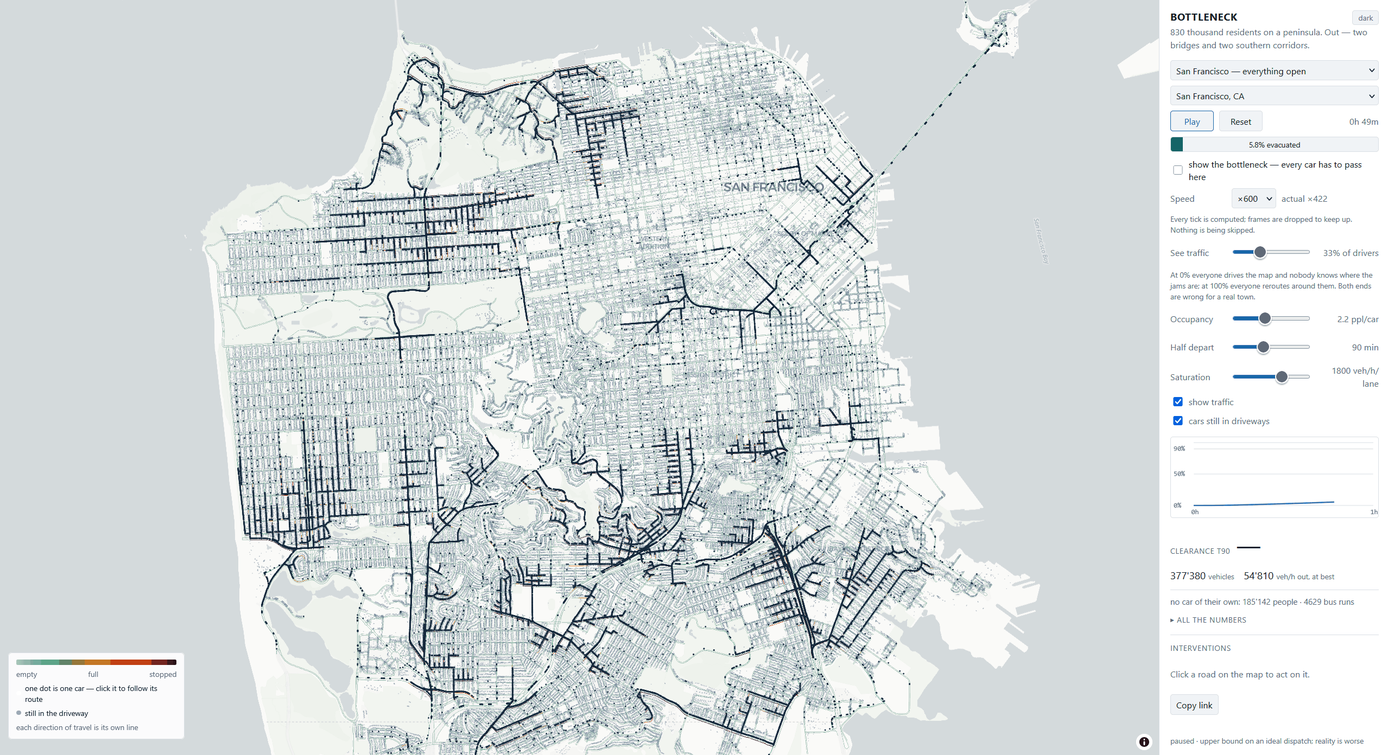
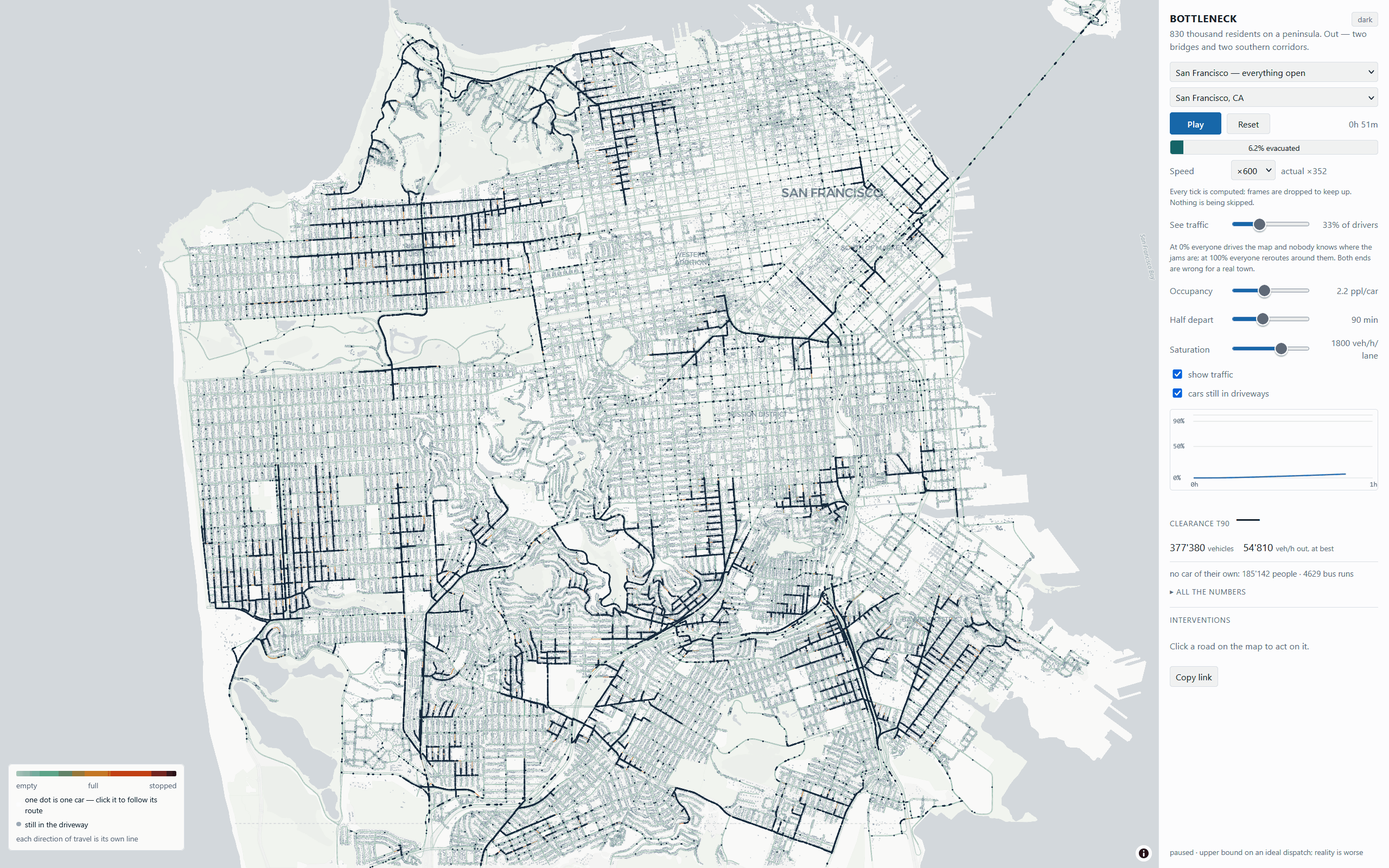
docs: update submission presentation
- Document the AI tools and models used during development.
- Replace the project preview with the current San Francisco interface.

diff --git a/README.md b/README.md
@@ -132,6 +132,11 @@ format enforce the architectural boundaries.
 | Offline data pipeline | Python, pyosmium, TypeScript |
 | Quality | TypeScript strict checks, Biome, Vitest |
 | Hosting and delivery | GitHub Actions, GitHub Pages |
+| AI-assisted development | OpenAI Codex with GPT-5.6 Sol; Claude Code with Claude Opus 5 |
+
+OpenAI Codex with GPT-5.6 Sol and Claude Code with Claude Opus 5 were used for implementation,
+code review, testing, and documentation. Bottleneck's traffic engine is a deterministic
+mathematical model rather than a generative AI model.
 
 The deployed application is a static site. The city data ships with it, and the simulation runs
 locally in the user's browser; no application server is required.
